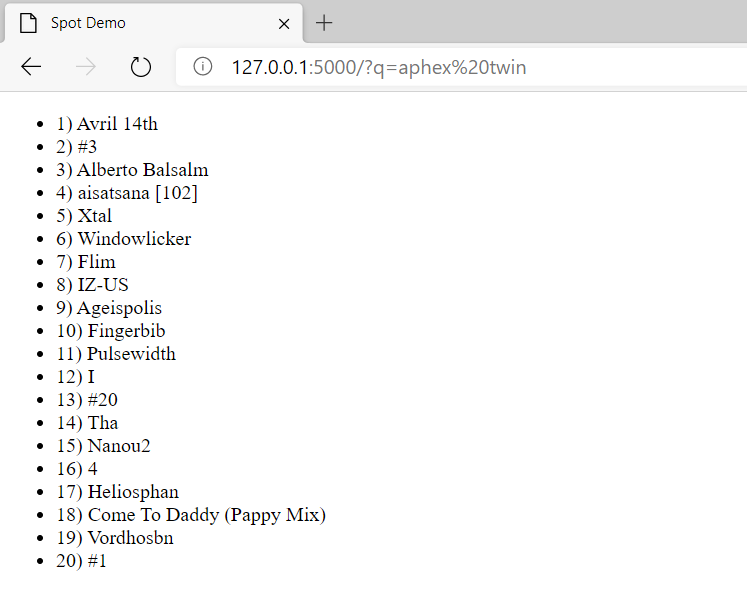
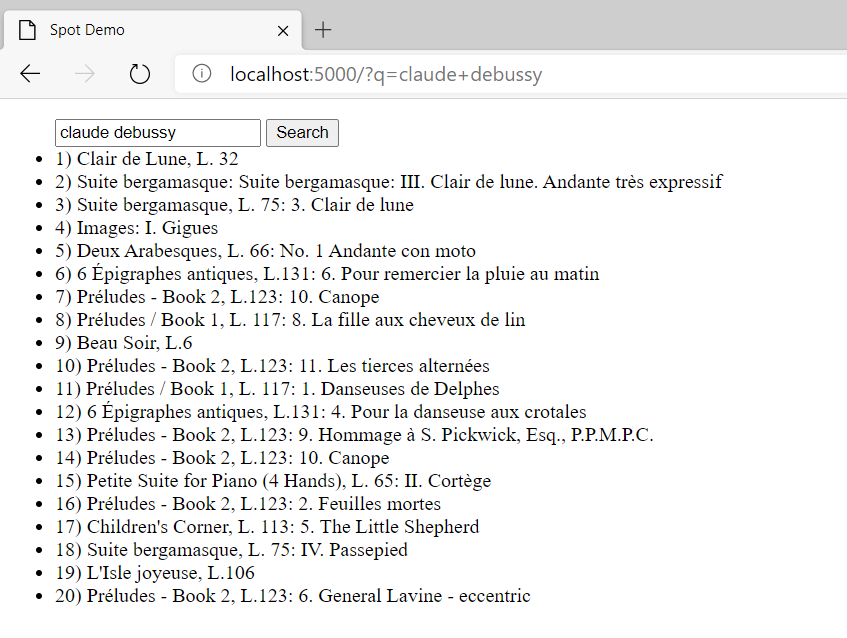
Add form field on index

diff --git a/templates/index.html b/templates/index.html
@@ -7,6 +7,10 @@
 
 <body>
   <ul>
+    <form>
+      <input type="text" value="{{ query }}" name="q" />
+      <button type="submit">Search</button>
+    </form>
     {% for result in results %}
     <li>{{ result["index"] }}) {{ result["track_name"] }}</li>
     {% endfor %}

diff --git a/main.py b/main.py
@@ -5,19 +5,24 @@ from flask import Flask, request, render_template
 app = Flask(__name__)
 
 
+def track_item(result):
+    (idx, track) = result
+    return {"index": idx + 1, "track_name": track['name']}
+
+
 def fetch_music(query):
+    if not query:
+        return []
+
     sp = spotipy.Spotify(auth_manager=SpotifyClientCredentials())
 
     results = sp.search(q=query, limit=20)
-    serialized = []
-    for idx, track in enumerate(results['tracks']['items']):
-        serialized.append({"index": idx + 1, "track_name": track['name']})
-    
-    return serialized
+    return list(map(track_item, enumerate(results['tracks']['items'])))
 
 
 @app.route('/')
 def index():
     query = request.args.get('q', '')
     results = fetch_music(query=query)
-    return render_template('index.html', results=results)
+
+    return render_template('index.html', results=results, query=query)
